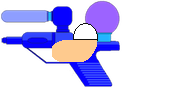
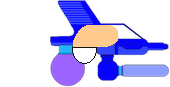
da stupid salt arm

diff --git a/core/src/com/missionbit/snailassalt/SaltArm.java b/core/src/com/missionbit/snailassalt/SaltArm.java
@@ -1,0 +1,32 @@
+package com.missionbit.snailassalt;
+
+import com.badlogic.gdx.Gdx;
+import com.badlogic.gdx.math.MathUtils;
+
+import java.util.ArrayList;
+
+/**
+ * Created by vivianlam on 8/4/14.
+ */
+public class SaltArm extends Weapon {
+    public SaltArm() {
+        super("salt arm.png");
+    }
+
+    public void Update2(ArrayList<Salt> shakers){
+        if(!enableSalt){return;}
+        if (Gdx.input.justTouched() && currentSalt!=0 && SnailAssalt.bulletType==SnailAssalt.bulletType.SALT && !SnailAssalt.saltButton.isPressed() && !SnailAssalt.hydraButton.isPressed()) {
+            touch = SnailAssalt.getTapPosition().x;
+            touchY = SnailAssalt.getTapPosition().y;
+            deltaX = touch - sprite.getX();
+            deltaY = touchY - sprite.getY();
+            rot = MathUtils.atan2(deltaY, deltaX) * 180 / MathUtils.PI;
+            sprite.setRotation(rot);
+            Salt bullet= new Salt();
+            shakers.add(bullet);
+            bullet.bound.setPosition(this.bound.x, this.bound.y);
+            bullet.speed.setAngleRad(MathUtils.degreesToRadians * rot);
+            currentSalt--;
+        }
+    }
+}

diff --git a/core/src/com/missionbit/snailassalt/HoseBut.java b/core/src/com/missionbit/snailassalt/HoseBut.java
@@ -10,7 +10,7 @@ import java.util.ArrayList;
  */
 public class HoseBut extends Button {
     public HoseBut(float x, float y) {
-        super(x, y, "hoseArm.png", "hoseArm.png");
+        super(x, y, "hose icon.png", "hose icon.png");
     }
 
 }
